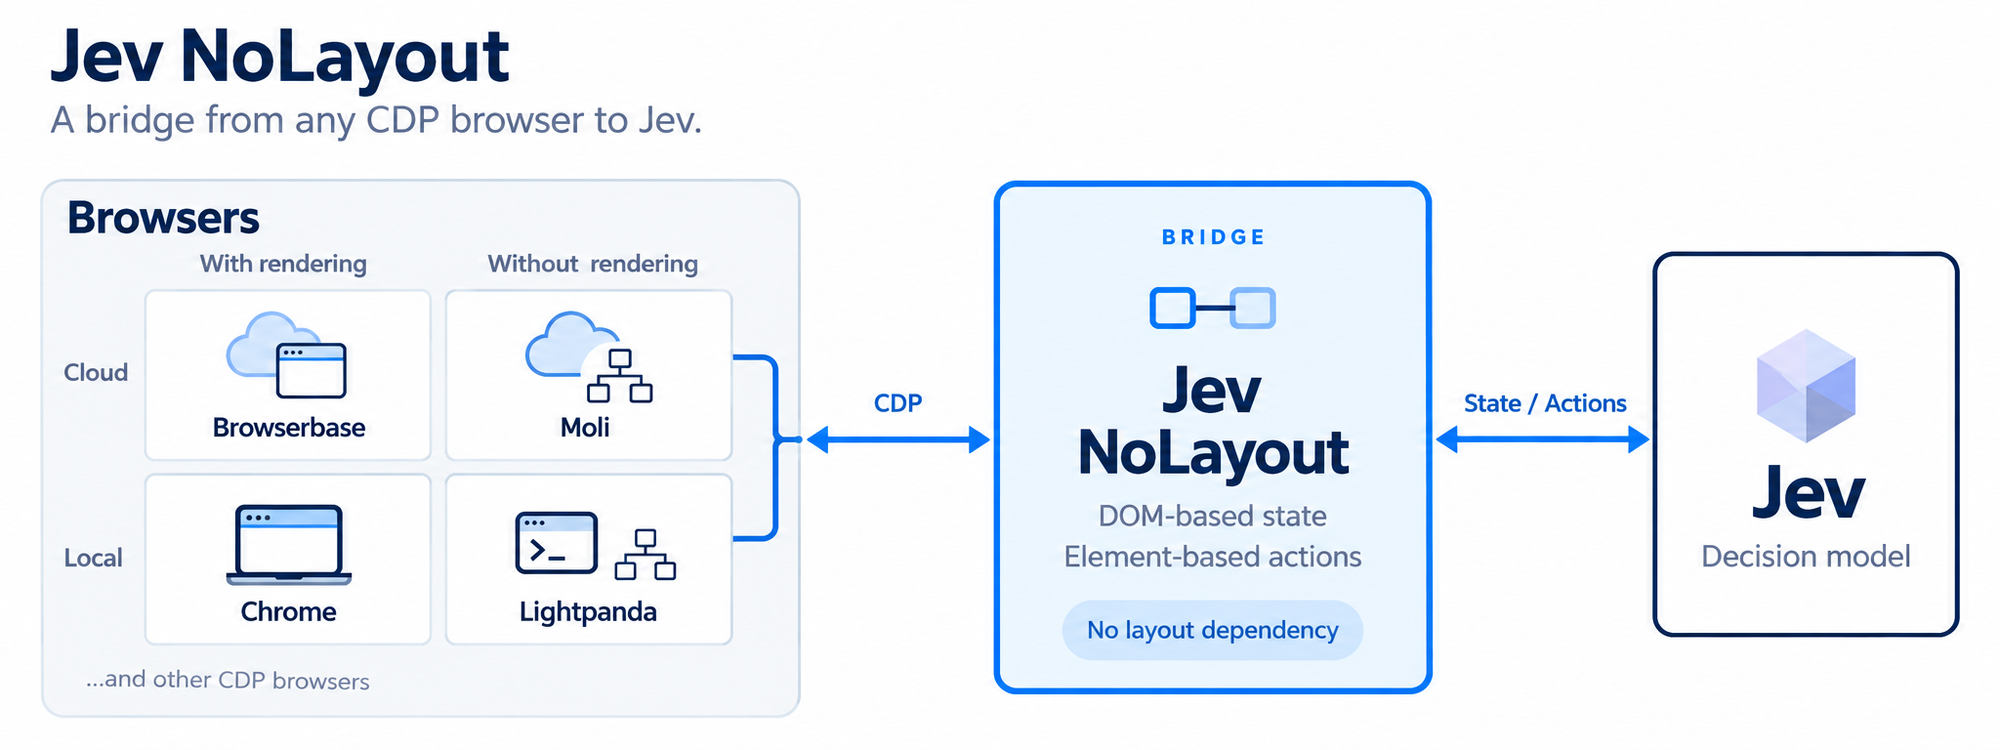
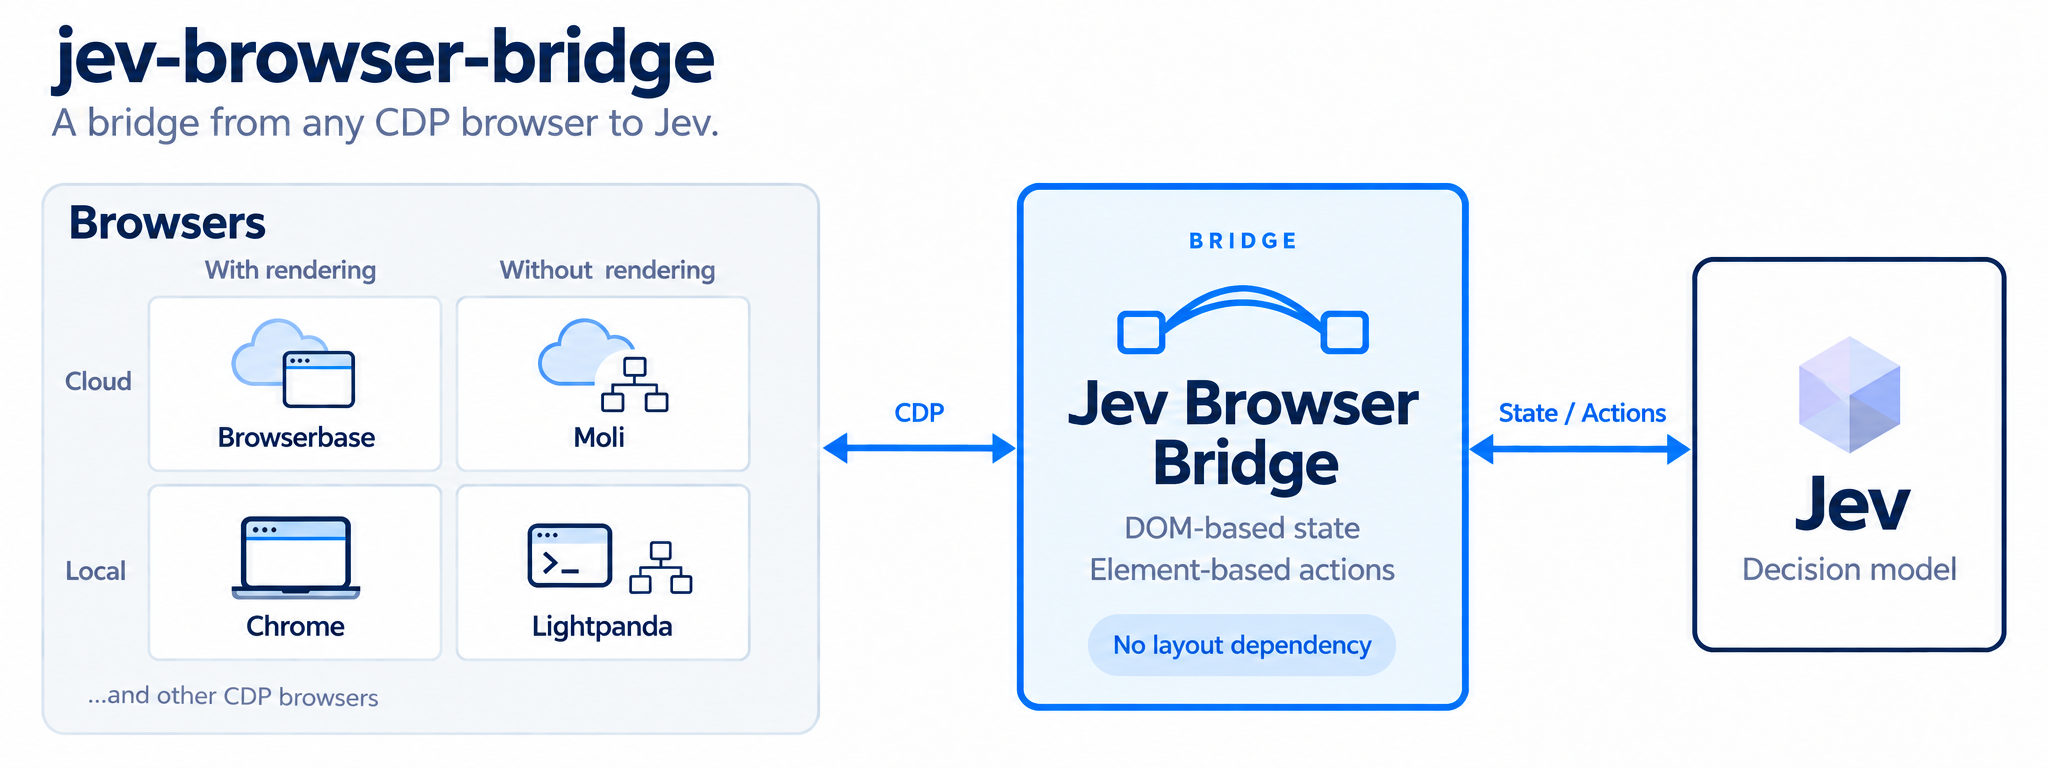
chore: rename to jev-browser-bridge (#5)
The name now says what it does: a bridge from any browser to Jev. The repo,
distribution, CLI and module are renamed, along with the page globals the
snapshot installs (__jevBridge*), and the overview diagram is redrawn.

jev_nolayout stays as a compatibility package that re-exports the new one
with a FutureWarning, and the jev-nolayout command stays as an alias, so
existing imports and scripts keep working.

diff --git a/jev_browser_bridge/snapshot.js b/jev_browser_bridge/snapshot.js
@@ -12,7 +12,7 @@
 (() => {
   if (!document.body) return null;
 
-  const cache = window.__jevNoLayout ||= {ids: new WeakMap(), nodes: new Map(), next: 1};
+  const cache = window.__jevBridge ||= {ids: new WeakMap(), nodes: new Map(), next: 1};
   const identity = e => {
     if (!cache.ids.has(e)) cache.ids.set(e, cache.next++);
     const id = cache.ids.get(e);

diff --git a/jev_browser_bridge/browser.py b/jev_browser_bridge/browser.py
@@ -37,8 +37,8 @@ ACT_JS = """(action => {
   // Mark this document. If the action replaces it, the next document will not
   // carry the mark -- which is how the caller tells "the page changed" from
   // "the page is still the one we clicked on and has not caught up yet".
-  window.__jevNoLayoutDoc = action.token;
-  const e = window.__jevNoLayout?.nodes.get(action.node);
+  window.__jevBridgeDoc = action.token;
+  const e = window.__jevBridge?.nodes.get(action.node);
   if (!e?.isConnected || e.matches(':disabled') ||
       e.closest('[aria-disabled="true"],[inert],[hidden]')) return null;
 
@@ -66,7 +66,7 @@ ACT_JS = """(action => {
     e.dispatchEvent(new Event('input', {bubbles: true}));
     e.dispatchEvent(new Event('change', {bubbles: true}));
     // How to find this field again if the page swaps it out; see REFILL_JS.
-    window.__jevNoLayoutField = {node: action.node, name: e.name || '',
+    window.__jevBridgeField = {node: action.node, name: e.name || '',
       aria: e.getAttribute('aria-label') || '', placeholder: e.placeholder || '',
       form: e.form?.id || ''};
     return 'filled';
@@ -104,9 +104,9 @@ ACT_JS = """(action => {
 # if the node we filled is gone, find its replacement by name, label or
 # placeholder, and put the text there too.
 REFILL_JS = """(text => {
-  const was = window.__jevNoLayoutField;
+  const was = window.__jevBridgeField;
   if (!was) return 'kept';
-  const old = window.__jevNoLayout?.nodes.get(was.node);
+  const old = window.__jevBridge?.nodes.get(was.node);
   if (old?.isConnected && old.value === text) return 'kept';
   const fields = [...document.querySelectorAll('input,textarea')].filter(f =>
     !f.disabled && !f.readOnly && f.type !== 'hidden'
@@ -128,12 +128,12 @@ REFILL_JS = """(text => {
 
 # Has the document been replaced since ACT_JS marked it, and is the new one done?
 LOADED_JS = """(token => ({
-  replaced: window.__jevNoLayoutDoc !== token,
+  replaced: window.__jevBridgeDoc !== token,
   ready: document.readyState === 'complete' || document.readyState === 'interactive',
 }))"""
 
 SUBMIT_JS = """(node => {
-  const e = window.__jevNoLayout?.nodes.get(node);
+  const e = window.__jevBridge?.nodes.get(node);
   if (!e?.isConnected) return null;
   e.focus();
   for (const type of ['keydown', 'keypress', 'keyup']) {

diff --git a/jev_nolayout/__init__.py b/jev_nolayout/__init__.py
@@ -1,7 +1,21 @@
-"""A browser agent that never asks the layout engine anything."""
-from .agent import Agent, Run, Step
-from .browser import Action, Browser, PageChanged, Snapshot
-from .session import connect, lexmount_session, moli_session, selenium_session
+"""Former name of jev_browser_bridge, kept so existing imports keep working.
 
-__all__ = ["Agent", "Run", "Step", "Action", "Browser", "PageChanged", "Snapshot",
-           "connect", "lexmount_session", "moli_session", "selenium_session"]
+`import jev_nolayout` and `from jev_nolayout.browser import Browser` both
+resolve to the same modules as their jev_browser_bridge counterparts. The
+warning is a FutureWarning rather than a DeprecationWarning because it is
+meant for the people using the package, and Python only shows the latter to
+developers by default.
+"""
+import importlib
+import sys
+import warnings
+
+import jev_browser_bridge as _package
+from jev_browser_bridge import *  # noqa: F401,F403
+from jev_browser_bridge import __all__  # noqa: F401
+
+warnings.warn("jev_nolayout is now jev_browser_bridge; update the import.",
+              FutureWarning, stacklevel=2)
+
+for _name in ("agent", "browser", "cli", "evidence", "model", "session"):
+    sys.modules[f"{__name__}.{_name}"] = importlib.import_module(f"{_package.__name__}.{_name}")

diff --git a/jev_browser_bridge/cli.py b/jev_browser_bridge/cli.py
@@ -1,4 +1,4 @@
-"""jev-nolayout <url> <goal> -- run one goal and print the trace."""
+"""jev-browser-bridge <url> <goal> -- run one goal and print the trace."""
 from __future__ import annotations
 
 import argparse
@@ -20,7 +20,7 @@ def load_env(path: str = ".env") -> None:
 
 
 def main() -> None:
-    parser = argparse.ArgumentParser(prog="jev-nolayout")
+    parser = argparse.ArgumentParser(prog="jev-browser-bridge")
     parser.add_argument("url")
     parser.add_argument("goal")
     parser.add_argument("--browser", default="light",

diff --git a/examples/flights.py b/examples/flights.py
@@ -6,8 +6,8 @@ from urllib.parse import parse_qs, urlparse
 
 sys.path.insert(0, os.path.dirname(os.path.dirname(os.path.abspath(__file__))))
 
-from jev_nolayout import Agent, moli_session  # noqa: E402
-from jev_nolayout.cli import load_env  # noqa: E402
+from jev_browser_bridge import Agent, moli_session  # noqa: E402
+from jev_browser_bridge.cli import load_env  # noqa: E402
 
 URL = "https://www.google.com/travel/flights?hl=en"
 DEPART = os.environ.get("DEPART_ON", "September 27, 2026")

diff --git a/jev_browser_bridge/session.py b/jev_browser_bridge/session.py
@@ -232,7 +232,7 @@ def lexmount_session(browser_mode: str = "light"):
         from lexmount import Lexmount
     except ImportError:
         raise RuntimeError(
-            'Lexmount support is an extra: pip install "jev-nolayout[lexmount]"') from None
+            'Lexmount support is an extra: pip install "jev-browser-bridge[lexmount]"') from None
 
     client = Lexmount()
     session = client.sessions.create(browser_mode=browser_mode, poll_timeout_sec=180)

diff --git a/jev_browser_bridge/__init__.py b/jev_browser_bridge/__init__.py
@@ -1,0 +1,7 @@
+"""A browser agent that never asks the layout engine anything."""
+from .agent import Agent, Run, Step
+from .browser import Action, Browser, PageChanged, Snapshot
+from .session import connect, lexmount_session, moli_session, selenium_session
+
+__all__ = ["Agent", "Run", "Step", "Action", "Browser", "PageChanged", "Snapshot",
+           "connect", "lexmount_session", "moli_session", "selenium_session"]

diff --git a/examples/quickstart.py b/examples/quickstart.py
@@ -7,8 +7,8 @@
 For any other browser, replace `lexmount_session()` with
 `connect("http://127.0.0.1:9222")` (or a ws:// URL) -- nothing else changes.
 """
-from jev_nolayout import Agent, lexmount_session
-from jev_nolayout.cli import load_env
+from jev_browser_bridge import Agent, lexmount_session
+from jev_browser_bridge.cli import load_env
 
 load_env()
 

diff --git a/README.md b/README.md
@@ -1,4 +1,4 @@
-# Jev NoLayout
+# Jev Browser Bridge
 
 ## Plug **any** browser into Jev.
 
@@ -10,7 +10,7 @@
 If it speaks CDP, it runs Jev.
 
 <p align="center">
-  <img src="assets/overview.png" alt="Jev NoLayout: a bridge from any CDP browser to Jev" width="100%">
+  <img src="assets/overview.png" alt="Jev Browser Bridge: a bridge from any CDP browser to Jev" width="100%">
 </p>
 
 ## Results
@@ -34,7 +34,7 @@ If it speaks CDP, it runs Jev.
 **Moli**, a cloud browser from Lexmount:
 
 ```python
-from jev_nolayout import Agent, lexmount_session
+from jev_browser_bridge import Agent, lexmount_session
 
 with lexmount_session() as browser:
     browser.navigate("https://en.wikipedia.org/wiki/Espresso")
@@ -49,7 +49,7 @@ lightpanda serve --port 9222
 ```
 
 ```python
-from jev_nolayout import Agent, connect
+from jev_browser_bridge import Agent, connect
 
 with connect("http://127.0.0.1:9222") as browser:
     browser.navigate("https://en.wikipedia.org/wiki/Espresso")
@@ -61,9 +61,9 @@ Any other browser works the same way: pass its CDP address to `connect()`.
 
 ## How it works
 
-Most browser-agent frameworks decide what is on a page by asking the **layout engine**. Jev NoLayout asks the **DOM**.
+Most browser-agent frameworks decide what is on a page by asking the **layout engine**. Jev Browser Bridge asks the **DOM**.
 
-| | Position-based reader | Jev NoLayout |
+| | Position-based reader | Jev Browser Bridge |
 | --- | --- | --- |
 | Is this control live? | `checkVisibility()` | `hidden`, `inert`, `aria-hidden`, `disabled` |
 | Can the agent reach it? | inside the viewport, by `getBoundingClientRect()` | anywhere in the document |
@@ -72,7 +72,7 @@ Most browser-agent frameworks decide what is on a page by asking the **layout en
 
 On Chrome both work. On a browser whose layout is lazy, missing or fake, only one of them does — same page, controls / characters read:
 
-| Browser | Position-based | Jev NoLayout |
+| Browser | Position-based | Jev Browser Bridge |
 | --- | --- | --- |
 | Moli · Google Flights | **5 / 7** | 155 / 34,189 |
 | Lightpanda · Wikipedia | **18 / 221** | 2,875 / 137,723 |
@@ -90,12 +90,12 @@ On Chrome both work. On a browser whose layout is lazy, missing or fake, only on
 ## Try it
 
 ```bash
-git clone https://github.com/lexmount/jev-nolayout.git
-cd jev-nolayout
+git clone https://github.com/lexmount/jev-browser-bridge.git
+cd jev-browser-bridge
 uv sync --extra lexmount
 cp .env.example .env          # JEV_API_KEY, and Lexmount credentials for Moli
 
-uv run jev-nolayout https://en.wikipedia.org/wiki/Espresso "Open the article about Latte"
+uv run jev-browser-bridge https://en.wikipedia.org/wiki/Espresso "Open the article about Latte"
 ```
 
 ```text
